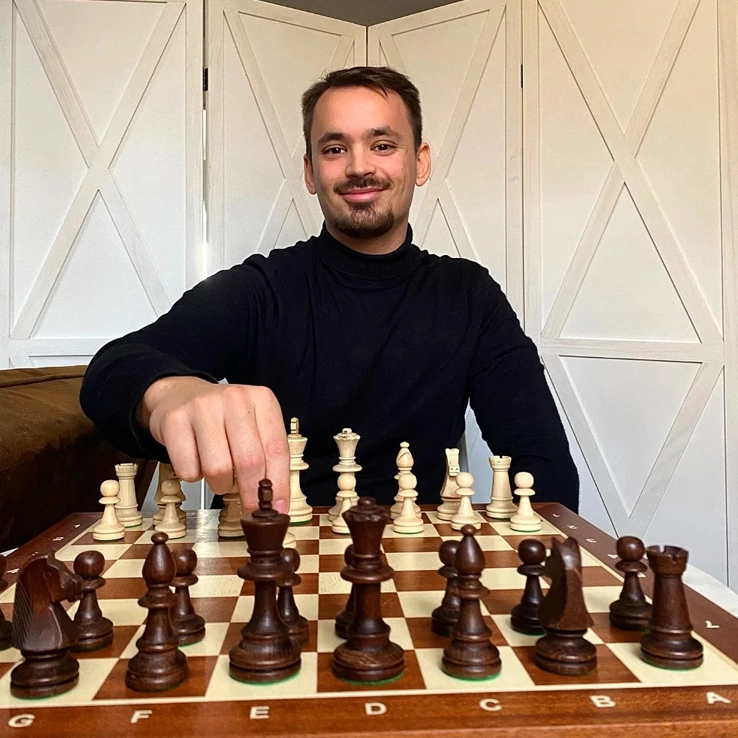
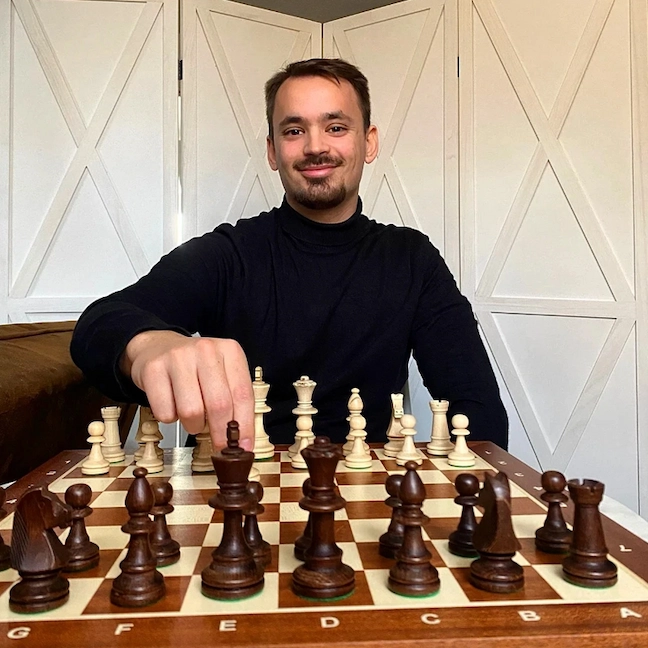
Optimisation performances: ajout fetchpriority=high sur image principale + image optimisee

Changed region(s): [[0.679, 0.0926, 0.7099, 0.1235]]

diff --git a/index.html b/index.html
@@ -205,7 +205,7 @@
         </div>
         <div class="hero-image">
           <div class="image-wrapper">
-            <img src="nicolas_musicki.webp" alt="Photo de Nicolas Musicki, professeur d'échecs à Paris et Versailles" width="500" height="500" loading="eager" />
+            <img src="nicolas_musicki.webp" alt="Photo de Nicolas Musicki, professeur d'échecs à Paris et Versailles" width="500" height="500" loading="eager" fetchpriority="high" />
             <div class="image-badge">1<sup>er</sup> cours OFFERT</div>
           </div>
         </div>
